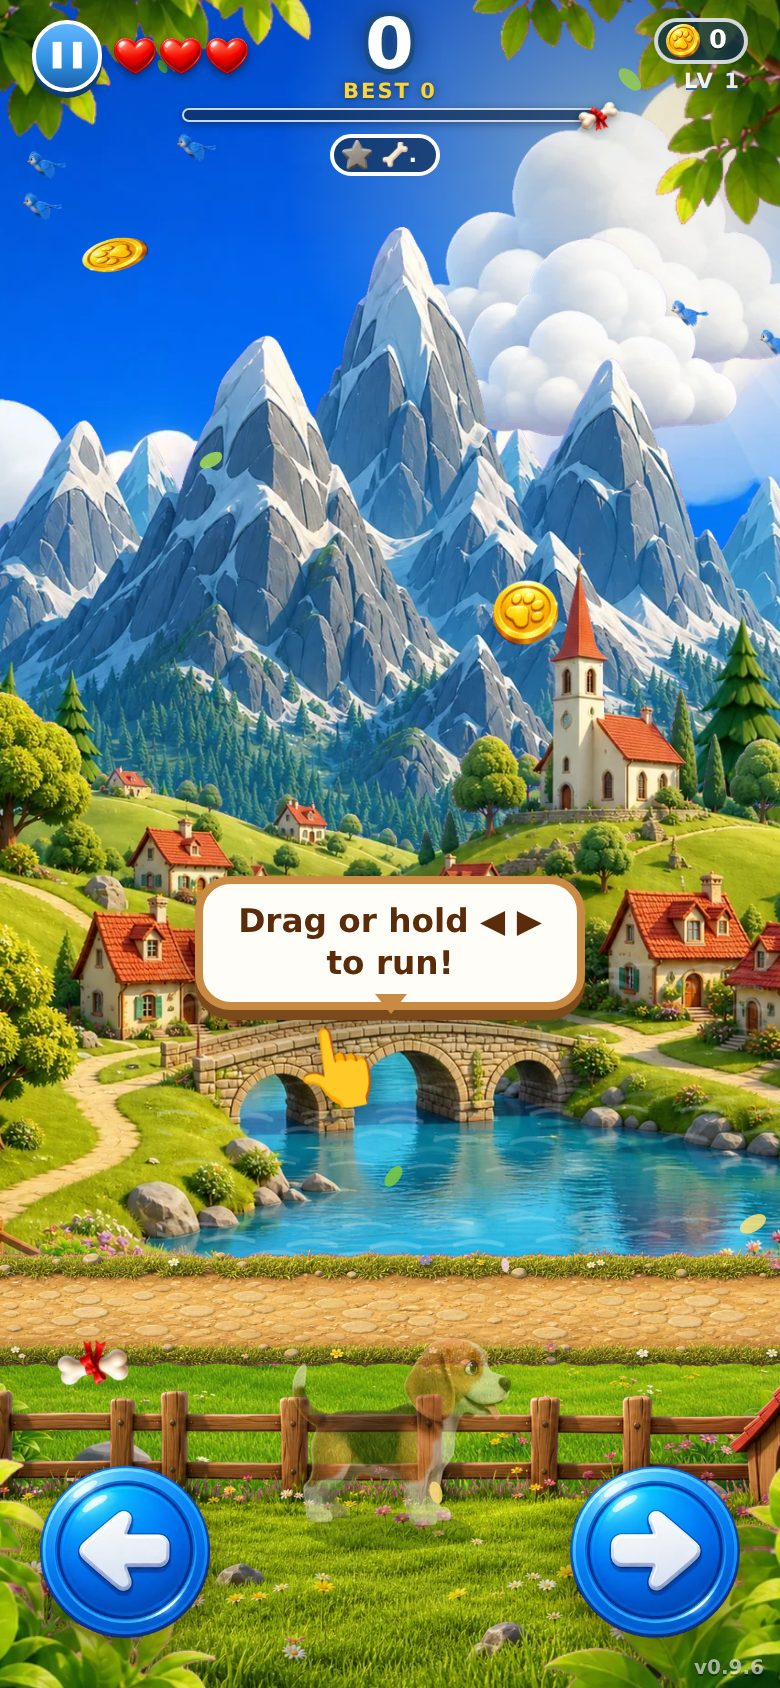
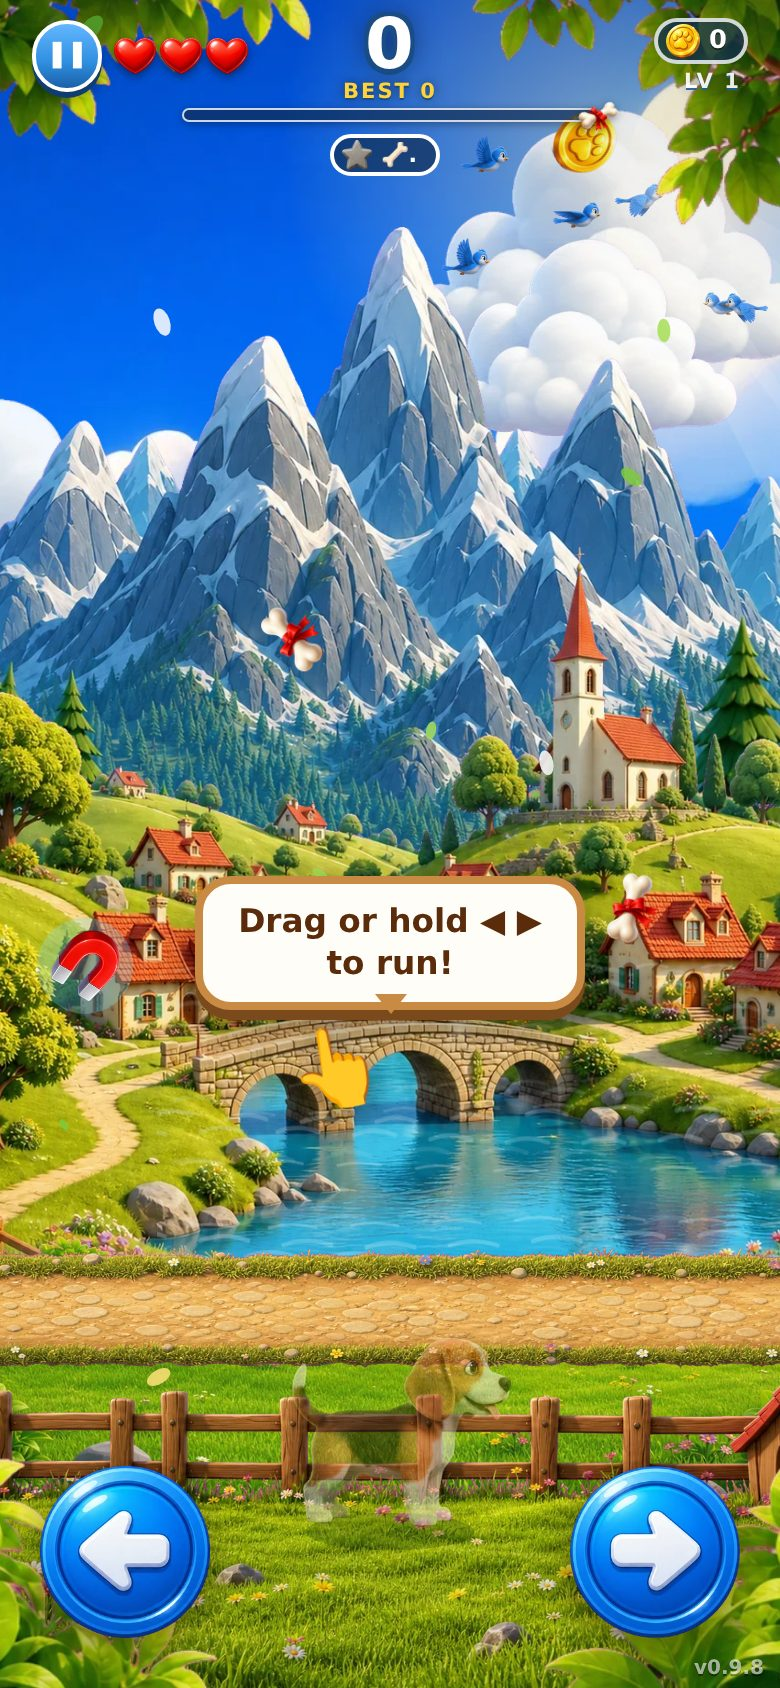
v0.9.8 — birds fly in front of the mountains

diff --git a/index.html b/index.html
@@ -5,7 +5,7 @@
 <meta name="viewport" content="width=device-width, initial-scale=1.0, maximum-scale=1.0, user-scalable=no, viewport-fit=cover">
 <meta name="theme-color" content="#2f8fe0">
 <title>BONK! — Catch. Dodge. Don't get bonked.</title>
-<link rel="stylesheet" href="styles/main.css?v=0.9.7">
+<link rel="stylesheet" href="styles/main.css?v=0.9.8">
 </head>
 <body>
 <div id="backdrop"></div>
@@ -179,35 +179,35 @@
 </div>
 
 <!-- core -->
-<script src="src/core/config.js?v=0.9.7"></script>
-<script src="src/core/events.js?v=0.9.7"></script>
-<script src="src/core/flags.js?v=0.9.7"></script>
-<script src="src/core/analytics.js?v=0.9.7"></script>
-<script src="src/core/save.js?v=0.9.7"></script>
-<script src="src/core/wallet.js?v=0.9.7"></script>
-<script src="src/core/storage.js?v=0.9.7"></script>
-<script src="src/core/assets.js?v=0.9.7"></script>
-<script src="src/core/audio.js?v=0.9.7"></script>
-<script src="src/core/input.js?v=0.9.7"></script>
+<script src="src/core/config.js?v=0.9.8"></script>
+<script src="src/core/events.js?v=0.9.8"></script>
+<script src="src/core/flags.js?v=0.9.8"></script>
+<script src="src/core/analytics.js?v=0.9.8"></script>
+<script src="src/core/save.js?v=0.9.8"></script>
+<script src="src/core/wallet.js?v=0.9.8"></script>
+<script src="src/core/storage.js?v=0.9.8"></script>
+<script src="src/core/assets.js?v=0.9.8"></script>
+<script src="src/core/audio.js?v=0.9.8"></script>
+<script src="src/core/input.js?v=0.9.8"></script>
 <!-- game data -->
-<script src="src/game/items.js?v=0.9.7"></script>
-<script src="src/game/goals.js?v=0.9.7"></script>
-<script src="src/game/levels.js?v=0.9.7"></script>
+<script src="src/game/items.js?v=0.9.8"></script>
+<script src="src/game/goals.js?v=0.9.8"></script>
+<script src="src/game/levels.js?v=0.9.8"></script>
 <!-- game systems -->
-<script src="src/game/ambient.js?v=0.9.7"></script>
-<script src="src/game/background.js?v=0.9.7"></script>
-<script src="src/game/effects.js?v=0.9.7"></script>
-<script src="src/game/puppy.js?v=0.9.7"></script>
-<script src="src/game/spawner.js?v=0.9.7"></script>
-<script src="src/game/game.js?v=0.9.7"></script>
-<script src="src/game/ftue.js?v=0.9.7"></script>
+<script src="src/game/ambient.js?v=0.9.8"></script>
+<script src="src/game/background.js?v=0.9.8"></script>
+<script src="src/game/effects.js?v=0.9.8"></script>
+<script src="src/game/puppy.js?v=0.9.8"></script>
+<script src="src/game/spawner.js?v=0.9.8"></script>
+<script src="src/game/game.js?v=0.9.8"></script>
+<script src="src/game/ftue.js?v=0.9.8"></script>
 <!-- ui + scenes -->
-<script src="src/ui/hud.js?v=0.9.7"></script>
-<script src="src/ui/modals.js?v=0.9.7"></script>
-<script src="src/scenes/menu.js?v=0.9.7"></script>
-<script src="src/scenes/map.js?v=0.9.7"></script>
-<script src="src/scenes/play.js?v=0.9.7"></script>
+<script src="src/ui/hud.js?v=0.9.8"></script>
+<script src="src/ui/modals.js?v=0.9.8"></script>
+<script src="src/scenes/menu.js?v=0.9.8"></script>
+<script src="src/scenes/map.js?v=0.9.8"></script>
+<script src="src/scenes/play.js?v=0.9.8"></script>
 <!-- bootstrap -->
-<script src="src/app.js?v=0.9.7"></script>
+<script src="src/app.js?v=0.9.8"></script>
 </body>
 </html>

diff --git a/src/game/background.js b/src/game/background.js
@@ -154,8 +154,15 @@ const BG = (() => {
       ctx.globalAlpha = .95; ctx.drawImage(im, c.x * W - px * AMP * c.d * 3, c.y * H + Math.sin(t * .6 + c.y * 20) * 4 - py * AMP * c.d, w, h);
     }
     ctx.globalAlpha = 1;
-    if (ambient) Ambient.drawSky(ctx, t, px * AMP);
-    for (const L of theme.layers) if (!L.front && !L.mid) { drawCover(img(L.key), -px * AMP * L.depth, -py * AMP * L.depth * .5, L.depth, L.bottom, L.width); if (L.water) drawWater(L, -px * AMP * L.depth, -py * AMP * L.depth * .5, t); }
+    // Back layers. Birds are drawn right AFTER the mountains so they fly in front
+    // of the peaks (not hidden behind them) but still behind the village/meadow.
+    let birdsDrawn = false;
+    for (const L of theme.layers) if (!L.front && !L.mid) {
+      drawCover(img(L.key), -px * AMP * L.depth, -py * AMP * L.depth * .5, L.depth, L.bottom, L.width);
+      if (L.water) drawWater(L, -px * AMP * L.depth, -py * AMP * L.depth * .5, t);
+      if (ambient && !birdsDrawn && L.key === (theme.birdsAfter || 'mountains')) { Ambient.drawSky(ctx, t, px * AMP); birdsDrawn = true; }
+    }
+    if (ambient && !birdsDrawn) Ambient.drawSky(ctx, t, px * AMP);
 
     ctx.save(); ctx.globalCompositeOperation = 'screen'; ctx.globalAlpha = .10 + Math.sin(t * .8) * .03;
     for (let i = 0; i < 4; i++) {

diff --git a/src/game/ambient.js b/src/game/ambient.js
@@ -17,7 +17,7 @@ const Ambient = (() => {
     WALKER_EVERY: [3.5, 8], // seconds between walkers
     BIRD_FLOCK_EVERY: [5, 10],
     MAX_CARS: 2, MAX_WALKERS: 3, MAX_BIRDS: 9,
-    BIRD_BAND: [0.06, 0.30],// sky band for birds
+    BIRD_BAND: [0.08, 0.40],// sky band for birds (crosses the peaks, drawn in front of mountains)
   };
   let W = 0, H = 0, cars = [], walkers = [], birds = [];
   let density = { birds: 1, walkers: 1, cars: 1 };   // per-level, set via setDensity()

diff --git a/styles/main.css b/styles/main.css
@@ -1,6 +1,6 @@
 /* BONK! — stylesheet entry point (import order matters) */
-@import url("base.css?v=0.9.7");
-@import url("menu.css?v=0.9.7");
-@import url("hud.css?v=0.9.7");
-@import url("modals.css?v=0.9.7");
-@import url("map.css?v=0.9.7");
+@import url("base.css?v=0.9.8");
+@import url("menu.css?v=0.9.8");
+@import url("hud.css?v=0.9.8");
+@import url("modals.css?v=0.9.8");
+@import url("map.css?v=0.9.8");

diff --git a/src/core/config.js b/src/core/config.js
@@ -6,7 +6,7 @@
  * Item definitions live in src/game/items.js
  */
 const CONFIG = Object.freeze({
-  VERSION: '0.9.7',
+  VERSION: '0.9.8',
   STORAGE_PREFIX: 'bonk_',
 
   /** Player (puppy) */

diff --git a/README.md b/README.md
@@ -3,7 +3,7 @@
 A polished 2D catch-and-dodge mobile web game with a Pixar-style parallax world.
 Move the puppy left/right, catch bones and coins, grab power-ups, and dodge falling rocks and bombs.
 
-**Version:** 0.9.7 · **Stack:** vanilla HTML5 Canvas + JS + CSS (no build step, no dependencies)
+**Version:** 0.9.8 · **Stack:** vanilla HTML5 Canvas + JS + CSS (no build step, no dependencies)
 
 ![BONK! gameplay](docs/screenshots/00_overview.jpg)
 
